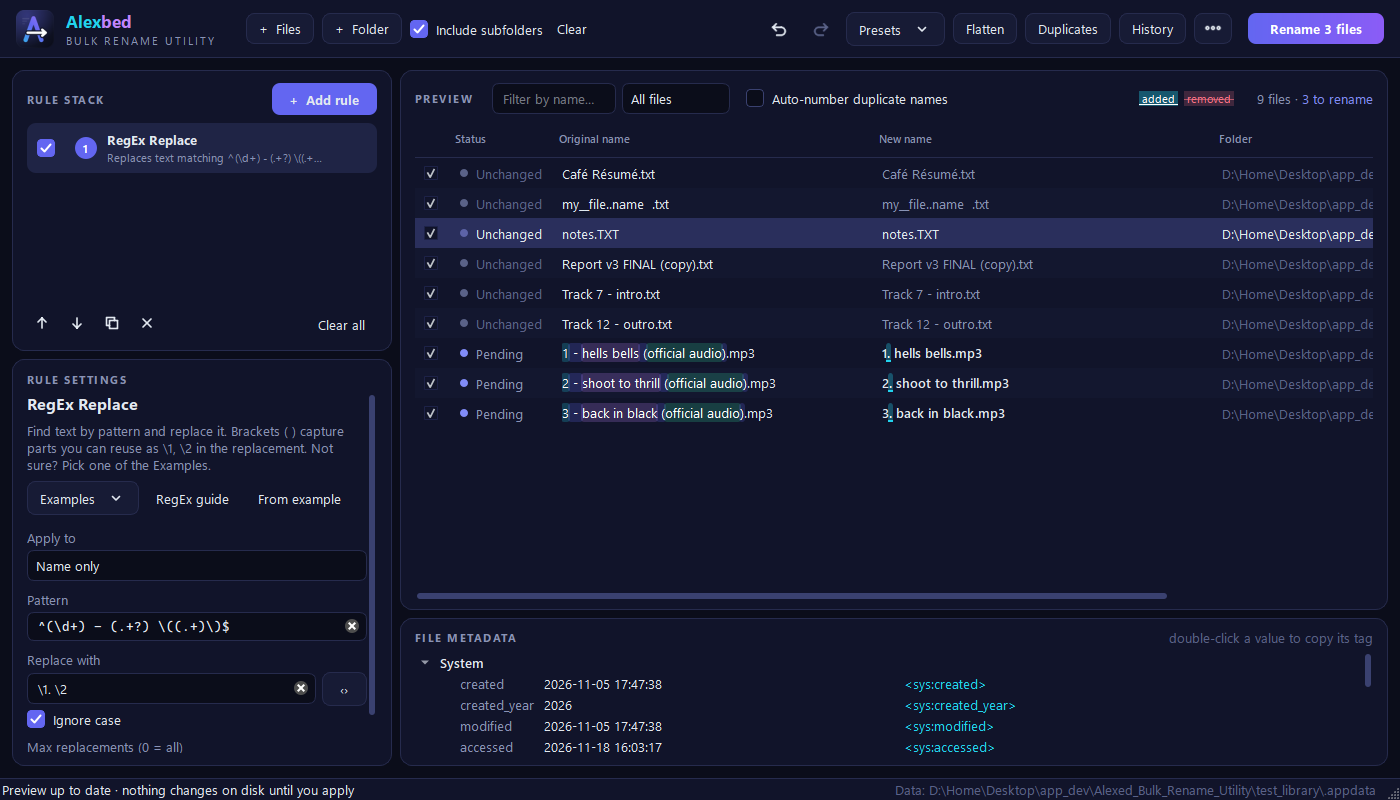
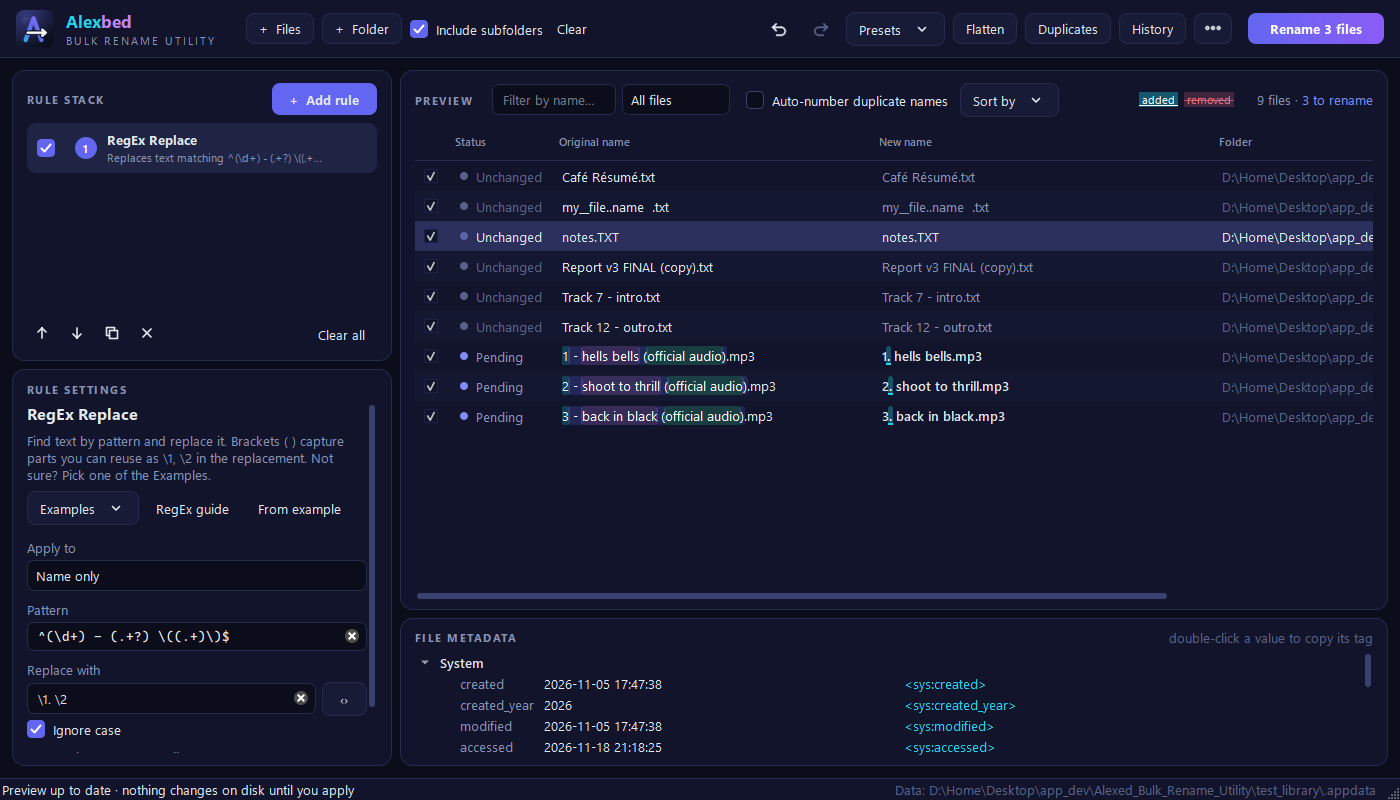
Release 1.3.0: version, screenshots, social card, video steps
- Version 1.3.0; CLAUDE.md status.
- Screenshots regenerated (Sort by button, recipe cards) plus a new
  recipes.png in the README.
- How-to video: new steps for Quick Recipes, Sort before numbering, and
  the ⋯ menu (spreadsheet export/import, Send To into the open window);
  15 steps, 3:56.

diff --git a/tools/make_tutorial_video.py b/tools/make_tutorial_video.py
@@ -48,6 +48,15 @@ SLIDES = [
          caption="Click Add rule and choose what to change. Rules run from top to bottom.",
          say="Click Add rule, and pick what you want to do: replace text, change capitals, add numbers, "
              "and more. You can stack several rules. They run from top to bottom."),
+    dict(title="Start from a recipe", image="recipes.png", boxes=[(12, 70, 392, 350)],
+         caption="No rules yet? Pick a Quick Recipe: it shows what it does to your own file.",
+         say="Not sure where to start? While the rule list is empty, it shows quick recipes: organize music, "
+             "photos by date taken, clean web downloads, and strip copy endings. Each card shows what it would "
+             "do to your own first file. One click loads the rules, and you can change them or undo."),
+    dict(title="Put files in order before numbering", image="cap-sort.png", boxes=["menu"],
+         caption="Sort by name, date taken, track number or size, or drag rows: numbers follow the list.",
+         say="Numbers follow the order of the list. Use Sort by, for example date taken or track number, "
+             "drag rows into place, or move the selected rows with Control and the arrow keys."),
     dict(title="Every rule explains itself", image="main-window.png", boxes=[(12, 70, 392, 350)],
          caption="Each rule card says in plain English what it does.",
          say="Each rule card tells you in plain English what it does. For example: pads numbers to two "
@@ -91,10 +100,11 @@ SLIDES = [
          caption="Templates like <track:2>. <artist> - <title> use the files' own tags.",
          say="Music, photos, videos and documents carry tags. A template such as track, artist, title "
              "builds tidy names from them automatically."),
-    dict(title="Send To menu (optional)", image="cap-more.png", boxes=["menu"],
-         caption="••• menu → Add to Windows “Send To” menu.",
-         say="Optional: in the three dots menu, add the app to Windows' Send To menu. Then you can "
-             "right-click files in Explorer, and send them straight to the app."),
+    dict(title="Spreadsheet and Send To", image="cap-more.png", boxes=["menu"],
+         caption="••• menu: export and import name lists, or add the app to Explorer's Send To.",
+         say="In the three dots menu, you can export the list to a spreadsheet, type new names there, and "
+             "import them back. You can also add the app to Windows' Send To menu: files you send go "
+             "straight into the open window."),
     dict(kind="end", title="Happy renaming!",
          say="That's it! Download Alexbed Bulk Rename Utility free from GitHub. Happy renaming!"),
 ]
@@ -168,6 +178,8 @@ def capture() -> dict:
     with_menu(w, rules_menu(w, lambda c: None), QPoint(272, 115), "cap-addrule.png")
     w._sync_more_menu()
     with_menu(w, w.more_menu, QPoint(1050, 50), "cap-more.png")
+    sort_btn = w.sort_menu.parent()
+    with_menu(w, w.sort_menu, sort_btn.mapTo(w, QPoint(0, sort_btn.height())), "cap-sort.png")
 
     w.clear_files()
     w.add_paths([demo])

diff --git a/alexed_bru/__init__.py b/alexed_bru/__init__.py
@@ -4,4 +4,4 @@
 
 APP_NAME = "Alexbed Bulk Rename Utility"
 APP_SHORT = "Alexbed BRU"
-APP_VERSION = "1.2.0"
+APP_VERSION = "1.3.0"

diff --git a/README.md b/README.md
@@ -5,7 +5,7 @@
 A portable, transactional bulk file renamer for big music libraries, photo and video folders and deeply nested document archives.
 It's a single `.exe` for Windows 10/11, with no installer and no registry footprint.
 
-**Version:** 1.2.0 &nbsp;|&nbsp; **Author:** Alexander Bediako &nbsp;|&nbsp; **Licence:** [GPL-3.0-or-later](LICENSE)
+**Version:** 1.3.0 &nbsp;|&nbsp; **Author:** Alexander Bediako &nbsp;|&nbsp; **Licence:** [GPL-3.0-or-later](LICENSE)
 
 > Versions 1.0.0 and 1.1.0 were published under the misspelt name *Alexed*. The app is **Alexbed**; old links
 > redirect here, and an existing `AlexedBRU_data` folder keeps being used, so your history and settings stay.
@@ -93,6 +93,8 @@ With no rules yet, the rule list shows four one-click recipes, each with a live 
 by date taken), **Clean web downloads** (`%20`, ` (1)`, ` - Copy`, `_` and `.` tidied) and **Strip copy and
 number endings**. They load ordinary rules you can change, Ctrl+Z undoes them, and they stay under
 **Presets ▾** afterwards.
+
+![Quick recipe cards and the Sort by menu](docs/screenshots/recipes.png)
 
 ### Put files in order before numbering
 

diff --git a/CLAUDE.md b/CLAUDE.md
@@ -10,7 +10,7 @@ Reads audio (mutagen), video (MP4/MOV atoms), EXIF (Pillow) and PDF/Office metad
   1.1.1 renamed everything users see. Still "alexed" on purpose: the Python package `alexed_bru`, the preset format id
   `alexed-bru-preset`, this local folder name, and compatibility code for the old data folder `AlexedBRU_data`,
   env var `ALEXED_BRU_DATA` and Send To shortcut "Alexed Bulk Rename.lnk" (`paths.py`, `core/sendto.py`).
-- **Status:** v1.2.0 released 2026-11-18 (adds Flatten folder; 1.1.1 and 1.1.0 earlier that day, 1.0.0 on 2026-11-06). Public repo
+- **Status:** v1.3.0 released 2026-11-18 (list export/import, sort before numbering, Quick Recipes, one window, Clear history; 1.2.0 Flatten, 1.1.x earlier that day, 1.0.0 on 2026-11-06). Public repo
   https://github.com/alexbedca/Alexbed-Bulk-Rename-Utility (GPL-3.0-or-later). Release assets: `AlexbedBulkRename.exe`,
   `AlexbedBulkRename.exe.sha256`, `LICENSE`, `THIRD-PARTY-NOTICES.txt`.
   1.1.0 added: Find duplicates, RegEx from example, plain-English rule cards, hand-edited names, auto-number
